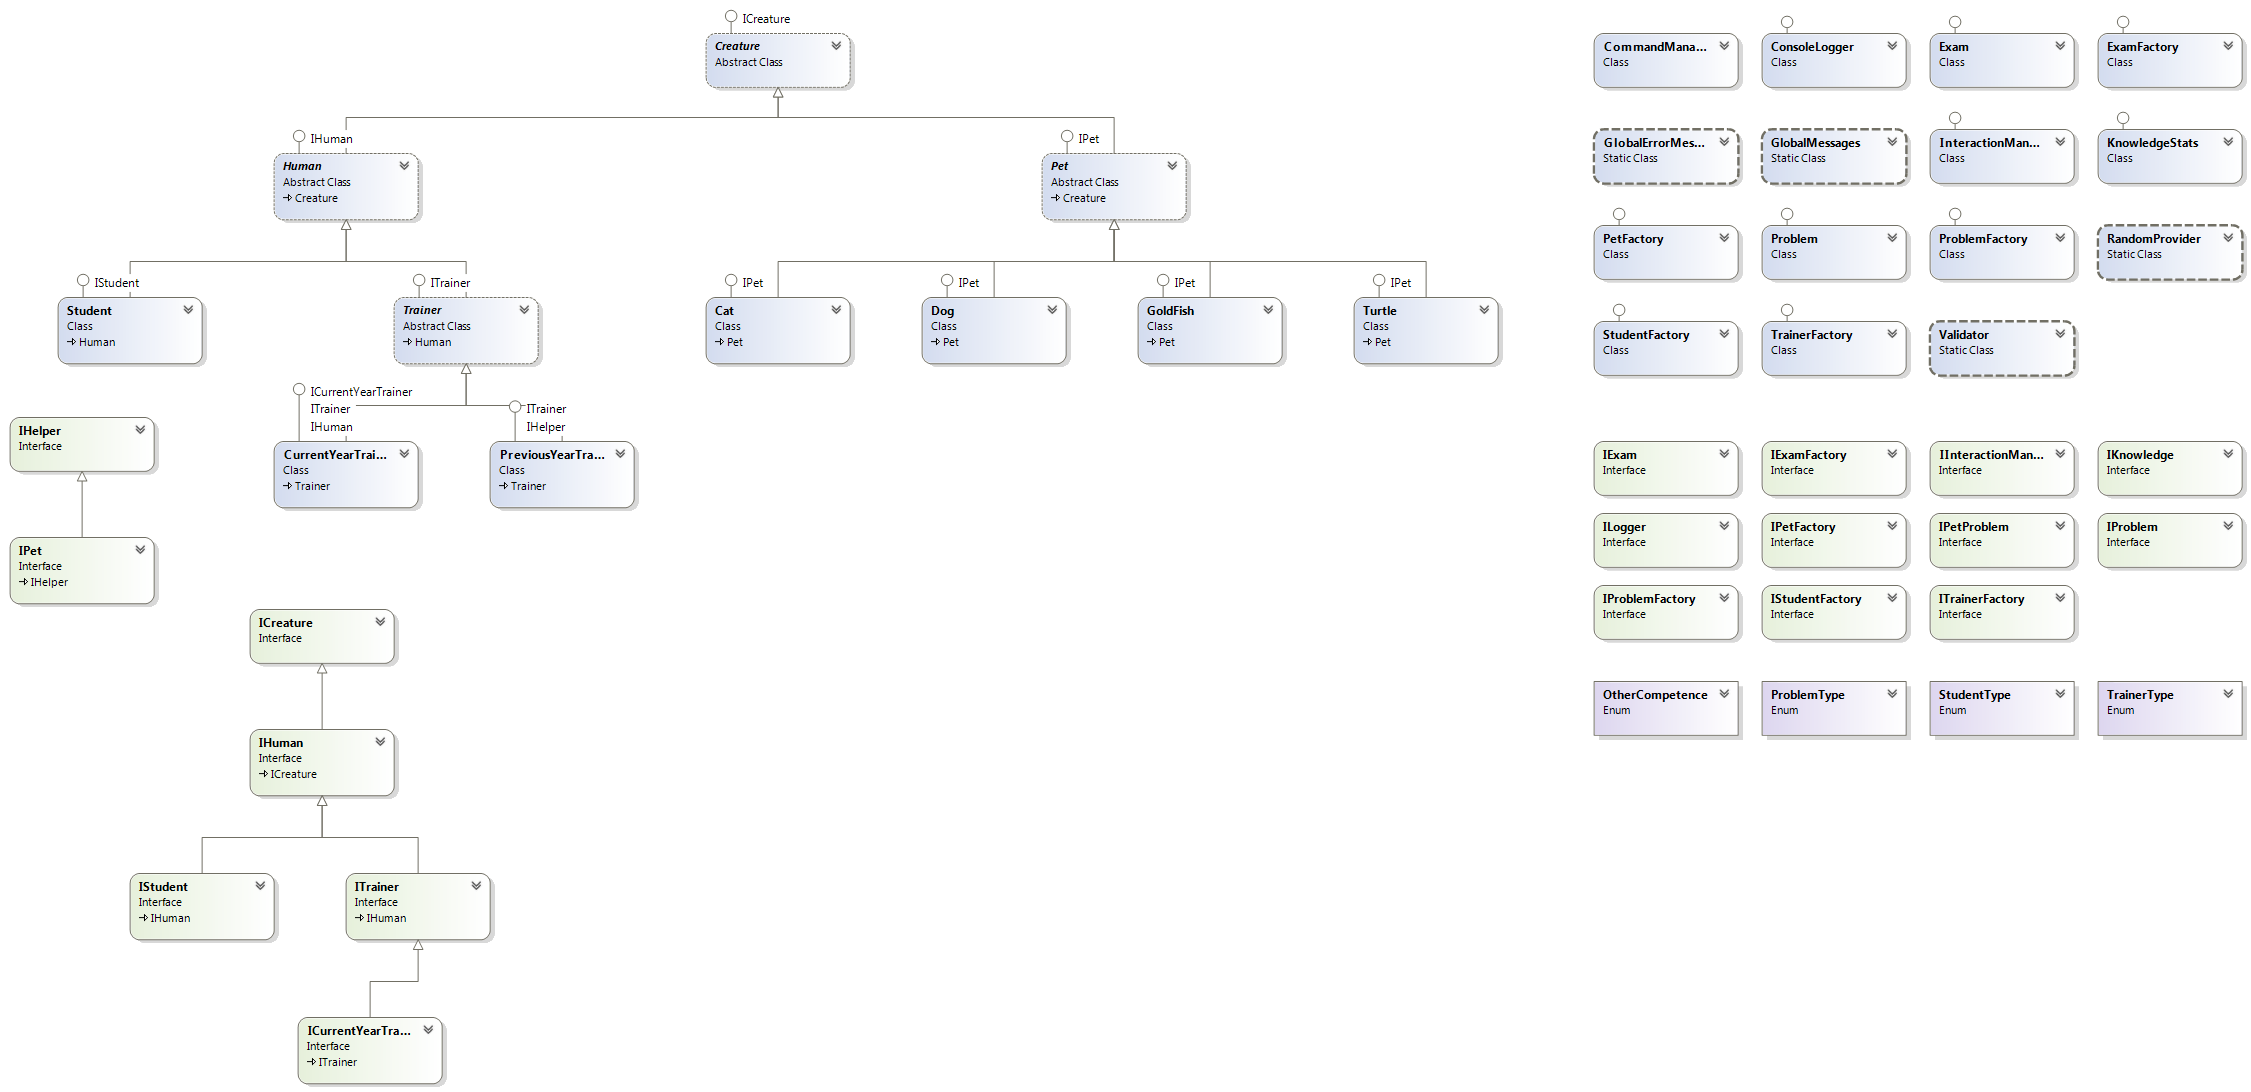
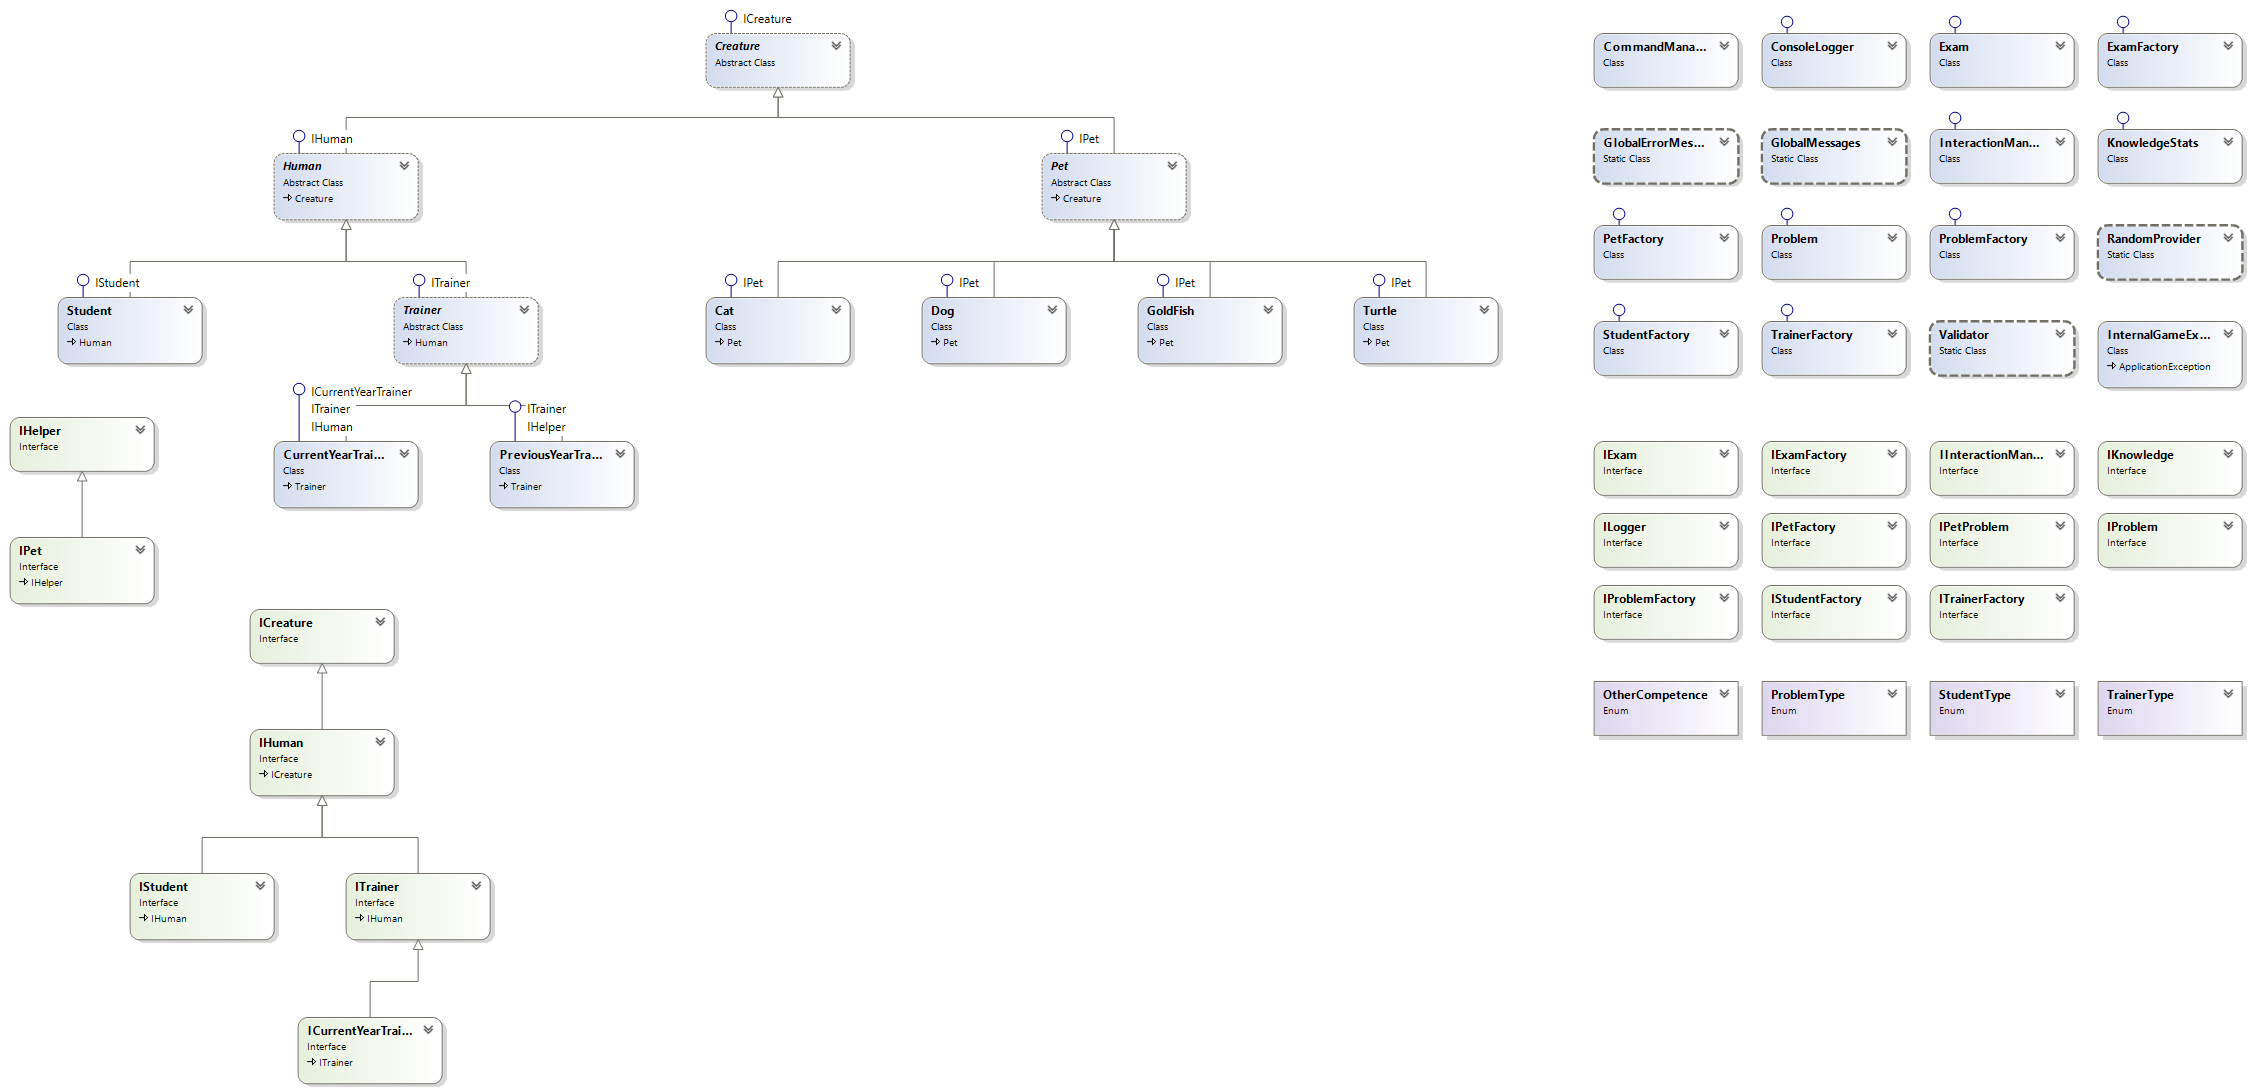
Added custom exception and add it to the class diagram

diff --git a/WOA/GameObjects/Engine/Factories/PetFactory.cs b/WOA/GameObjects/Engine/Factories/PetFactory.cs
@@ -30,7 +30,7 @@ using GameObjects.Models.Pets;
                 case 2: return new Dog(petName);
                 case 3: return new GoldFish(petName);
                 case 4: return new Turtle(petName);
-                default: throw new ArgumentException("There is no such pet");
+                default: throw new InternalGameException("There is no such pet");
             }
         }
 

diff --git a/WOA/GameObjects/Engine/InternalGameException.cs b/WOA/GameObjects/Engine/InternalGameException.cs
@@ -1,0 +1,17 @@
+namespace GameObjects.Engine
+{
+
+    using System;
+    using System.Collections.Generic;
+    using System.Linq;
+    using System.Text;
+    using System.Threading.Tasks;
+
+    public class InternalGameException : ApplicationException
+    {
+        public InternalGameException(string message)
+            : base(message)
+        {
+        }
+    }
+}
